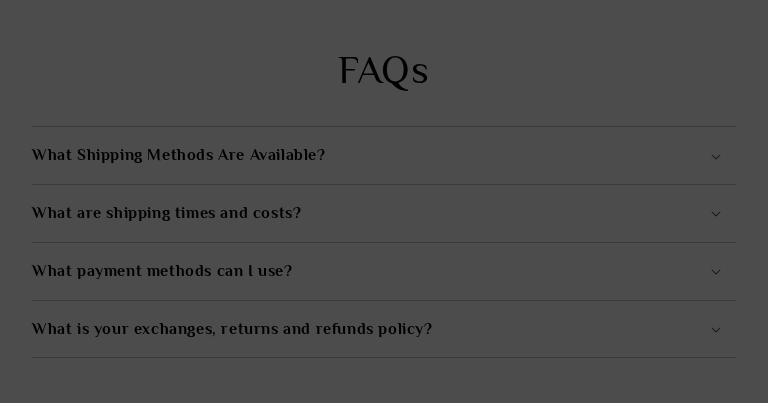
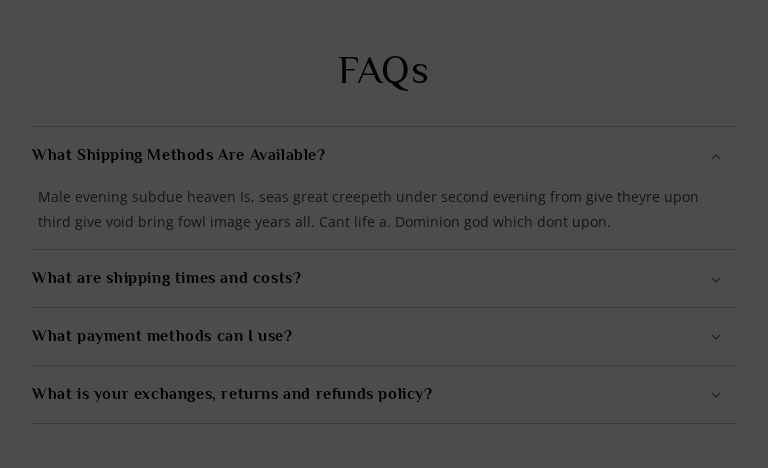
Record Wearix interact findings after one retry pass.
Cart drawer empty/filled/qty, cart page, PDP Black swatch, and FAQ open changed pixels. Mega, hamburger, predictive search, and home tabs did not — missingStates after the allowed retry. No new schemas.

diff --git a/todo/wearix.md b/todo/wearix.md
@@ -15,8 +15,8 @@ shop `pandora-fashi.myshopify.com`
 
 **Demo kapısı:** Storefront password wall. Ürün sayfası ve mağaza adı vendor şifresini yayınlıyor: **"Please enter password 1 to view demo."** / `pandora-fashi (password: 1)`. Başka host uydurulmadı.
 
-**Durum:** Mod A walk + 3vp capture + interact (devam)  
-**PR:** draft (bu branch) · **main'e merge yok**
+**Durum:** Mod A walk + 3vp + interact (kısmi)  
+**PR:** https://github.com/mattiasadem/qante/pull/323 (draft) · **main'e merge yok**
 
 ---
 
@@ -29,10 +29,11 @@ shop `pandora-fashi.myshopify.com`
 | Storefront password | observation `storefrontPassword: "1"` + `scripts/unlock-storefront.mjs` |
 | Şema | **0 yeni** (mevcut tipler reuse) |
 | Observation | **35** |
+| Evidence | **143 PNG** |
 | Parallel | yalnız `observations/wearix/`, `evidence/wearix/`, `todo/wearix.md`, `candidates/wearix-leftovers.md`, unlock helper |
 
 **Kapsam satırı:**  
-`Wearix · default · Pandora-fashi-fashion-latest V-1.5.0 / schema_name pandora_fashi 1.5.0 · theme_store_id null · home→PDP stylish-white-trouser-suit→PLP men-t-shirt→collections→search hoodie→cart empty→about-us→contact→news+article→404 · 35 obs · 0 yeni şema · leftover: candidates/wearix-leftovers.md`
+`Wearix · default · Pandora-fashi-fashion-latest V-1.5.0 / schema_name pandora_fashi 1.5.0 · theme_store_id null · home→PDP stylish-white-trouser-suit→PLP men-t-shirt→collections→search hoodie→cart empty+filled→about-us→contact→news+article→404 · 35 obs · 143 PNG · 0 yeni şema · leftover: candidates/wearix-leftovers.md`
 
 ---
 
@@ -40,20 +41,22 @@ shop `pandora-fashi.myshopify.com`
 
 | Şablon | Durum | 3vp |
 |---|---|---|
-| Home roster (announcement→footer) | roster | [ ] |
-| Mega Shop 1440 | interact | [ ] |
-| Predictive search `hoodie` | interact | [ ] |
-| Mobile menu 375 + 768 | interact | [ ] |
-| Cart drawer empty + filled | interact | [ ] |
-| PDP variant / ATC | interact | [ ] |
-| PLP `/collections/men-t-shirt` | roster | [ ] |
-| Collections index `/collections` | roster | [ ] |
-| Search `/search?q=hoodie` | roster | [ ] |
-| Cart `/cart` empty + filled | interact | [ ] |
-| About `/pages/about-us` | roster | [ ] |
-| Contact form (submit yok) | roster | [ ] |
-| News + article | roster | [ ] |
-| 404 | roster | [ ] |
+| Home roster (announcement→footer) | [x] | [x] |
+| Mega Shop 1440 | missingStates | [x] initial |
+| Predictive search `hoodie` | missingStates | overlay yok |
+| Mobile menu 375 + 768 | missingStates | kapalı kare |
+| Cart drawer empty + filled + qty | [x] | [x] |
+| PDP variant Black | [x] | [x] |
+| FAQ first accordion | [x] | [x] |
+| Home tabs NEW ARRIVALS | missingStates | [x] initial |
+| PLP `/collections/men-t-shirt` | [x] | [x] |
+| Collections index `/collections` | [x] | [x] |
+| Search `/search?q=hoodie` | [x] | [x] |
+| Cart `/cart` empty + filled + qty | [x] | [x] |
+| About `/pages/about-us` | [x] | [x] |
+| Contact form (submit yok) | [x] | [x] |
+| News + article | [x] | [x] |
+| 404 | [x] | [x] |
 | Email / account / checkout / newsletter submit | ⛔ dur | — |
 
 ---
@@ -62,40 +65,40 @@ shop `pandora-fashi.myshopify.com`
 
 | # | id | sayfa | Screenshot | Not | JSON | Done |
 |---|---|---|---|---|---|---|
-| 1 | promo-announcement-bar | home | [ ] | [x] | reuse | [ ] |
-| 2 | navigation-header-mega | home | [ ] | [x] | reuse | [ ] |
-| 3 | hero-slideshow | home | [ ] | [x] | reuse | [ ] |
-| 4 | collection-nav-image-cards | home | [ ] | [x] | reuse | [ ] |
-| 5 | collection-nav-icon-buttons | home | [ ] | [x] | reuse | [ ] |
-| 6 | product-showcase-tabs | home | [ ] | [x] | reuse | [ ] |
-| 7 | editorial-image-with-text-overlay | home | [ ] | [x] | reuse | [ ] |
-| 8 | promo-grid-banner | home | [ ] | [x] | reuse | [ ] |
-| 9 | media-video-hero | home | [ ] | [x] | reuse | [ ] |
-| 10 | blog-list-main | home | [ ] | [x] | reuse | [ ] |
-| 11 | testimonial-quote-carousel | home | [ ] | [x] | reuse | [ ] |
-| 12 | faq-collapsible-tabs | home | [ ] | [x] | reuse | [ ] |
-| 13 | media-shop-the-feed | home | [ ] | [x] | reuse | [ ] |
-| 14 | trust-icon-row | home | [ ] | [x] | reuse | [ ] |
-| 15 | footer-columns-newsletter | home | [ ] | [x] | reuse | [ ] |
-| 16 | global-menu-drawer | home | [ ] | [x] | reuse | [ ] |
-| 17 | global-predictive-search | home | [ ] | [x] | reuse | [ ] |
-| 18 | global-cart-drawer | home | [ ] | [x] | reuse | [ ] |
-| 19 | collection-banner | collection | [ ] | [x] | reuse | [ ] |
-| 20 | product-showcase-grid-plp | collection | [ ] | [x] | reuse | [ ] |
-| 21 | product-info-main | product-detail | [ ] | [x] | reuse | [ ] |
-| 22 | trust-icon-row | product-detail | [ ] | [x] | reuse | [ ] |
-| 23–24 | editorial-image-with-text ×2 | product-detail | [ ] | [x] | reuse | [ ] |
-| 25 | product-showcase-related | product-detail | [ ] | [x] | reuse | [ ] |
-| 26 | cart-page-main | cart | [ ] | [x] | reuse | [ ] |
-| 27 | product-showcase-grid-featured | cart | [ ] | [x] | reuse | [ ] |
-| 28 | search-results | search | [ ] | [x] | reuse | [ ] |
-| 29 | collection-nav-grid | collections | [ ] | [x] | reuse | [ ] |
-| 30 | blog-list-main | blog | [ ] | [x] | reuse | [ ] |
-| 31 | blog-post-main | blog-post | [ ] | [x] | reuse | [ ] |
-| 32 | page-content-main | about-brand | [ ] | [x] | reuse | [ ] |
-| 33 | editorial-rich-text | contact | [ ] | [x] | reuse | [ ] |
-| 34 | lead-capture-form | contact | [ ] | [x] | reuse | [ ] |
-| 35 | page-content-main | not-found | [ ] | [x] | reuse | [ ] |
+| 1 | promo-announcement-bar | home | [x] | [x] | reuse | [x] |
+| 2 | navigation-header-mega | home | [x] | [x] | reuse | [x] |
+| 3 | hero-slideshow | home | [x] | [x] | reuse | [x] |
+| 4 | collection-nav-image-cards | home | [x] | [x] | reuse | [x] |
+| 5 | collection-nav-icon-buttons | home | [x] | [x] | reuse | [x] |
+| 6 | product-showcase-tabs | home | [x] | [x] | reuse | [x] |
+| 7 | editorial-image-with-text-overlay | home | [x] | [x] | reuse | [x] |
+| 8 | promo-grid-banner | home | [x] | [x] | reuse | [x] |
+| 9 | media-video-hero | home | [x] | [x] | reuse | [x] |
+| 10 | blog-list-main | home | [x] | [x] | reuse | [x] |
+| 11 | testimonial-quote-carousel | home | [x] | [x] | reuse | [x] |
+| 12 | faq-collapsible-tabs | home | [x] | [x] | reuse | [x] |
+| 13 | media-shop-the-feed | home | [x] | [x] | reuse | [x] |
+| 14 | trust-icon-row | home | [x] | [x] | reuse | [x] |
+| 15 | footer-columns-newsletter | home | [x] | [x] | reuse | [x] |
+| 16 | global-menu-drawer | home | [x] | [x] | reuse | [x] |
+| 17 | global-predictive-search | home | [x] | [x] | reuse | [x] |
+| 18 | global-cart-drawer | home | [x] | [x] | reuse | [x] |
+| 19 | collection-banner | collection | [x] | [x] | reuse | [x] |
+| 20 | product-showcase-grid-plp | collection | [x] | [x] | reuse | [x] |
+| 21 | product-info-main | product-detail | [x] | [x] | reuse | [x] |
+| 22 | trust-icon-row | product-detail | [x] | [x] | reuse | [x] |
+| 23–24 | editorial-image-with-text ×2 | product-detail | [x] | [x] | reuse | [x] |
+| 25 | product-showcase-related | product-detail | [x] | [x] | reuse | [x] |
+| 26 | cart-page-main | cart | [x] | [x] | reuse | [x] |
+| 27 | product-showcase-grid-featured | cart | [x] | [x] | reuse | [x] |
+| 28 | search-results | search | [x] | [x] | reuse | [x] |
+| 29 | collection-nav-grid | collections | [x] | [x] | reuse | [x] |
+| 30 | blog-list-main | blog | [x] | [x] | reuse | [x] |
+| 31 | blog-post-main | blog-post | [x] | [x] | reuse | [x] |
+| 32 | page-content-main | about-brand | [x] | [x] | reuse | [x] |
+| 33 | editorial-rich-text | contact | [x] | [x] | reuse | [x] |
+| 34 | lead-capture-form | contact | [x] | [x] | reuse | [x] |
+| 35 | page-content-main | not-found | [x] | [x] | reuse | [x] |
 
 ---
 
@@ -107,6 +110,7 @@ shop `pandora-fashi.myshopify.com`
 
 ## Evidence backlog
 
-- [ ] 3vp capture `capture-observation.mjs`
-- [ ] Interact: mega / hamburger / search / cart drawer / PDP variant / FAQ / tabs / cart filled
-- [ ] Validator
+- [x] 3vp capture `capture-observation.mjs`
+- [x] Interact: cart drawer empty/filled/qty · cart page empty/filled/qty · PDP Black · FAQ open
+- [x] missingStates (2 deneme): mega open · hamburger open/changed · predictive input · tabs changed
+- [x] Validator 0 error

diff --git a/todo/README.md b/todo/README.md
@@ -46,7 +46,7 @@
 | HexClad | [`hexclad.md`](./hexclad.md) | ✅ listicle-fathers-day · 5 obs · 15 PNG · 0 yeni şema |
 | Allbirds | [`allbirds.md`](./allbirds.md) | 🟡 Mod A — 30 obs · ~90 PNG · partial capture (search blocked) |
 | Legal / policy (Kreis recipe) | [`policy-legal.md`](./policy-legal.md) | ✅ page-recipes/policy · 3-col sticky TOC \| content \| sibling nav |
-| Wearix (Speedo / Pandora) | [`wearix.md`](./wearix.md) | 🟡 Mod A — official demo password 1 · 35 obs · 0 yeni şema |
+| Wearix (Speedo / Pandora) | [`wearix.md`](./wearix.md) | 🟡 default — 35 obs · 143 PNG · 0 yeni şema · cart/PDP/FAQ interact; mega/search/menu overlay missingStates |
 
 **Interact (discover sonrası derinlik):** [`interact.md`](./interact.md) — kapalı kare yalanı; Stretch + Cocoon/Balance shop-the-look kapandı.
 

diff --git a/candidates/wearix-leftovers.md b/candidates/wearix-leftovers.md
@@ -94,4 +94,11 @@ Karar: onay bekliyor
 
 ---
 
+ADAY: wearix-cart-dual-threshold  
+Gerekçe: Cart drawer iki kargo eşiği (Free $500 / Express $800). `global-cart-drawer` tek `kargoEsigi`. Observation delta.  
+Öneri: leftover — şemaya dokunulmadı  
+Karar: onay bekliyor
+
+---
+
 Newsletter Subscribe / contact Send / checkout / Buy it now — PII/ödeme, dur.
